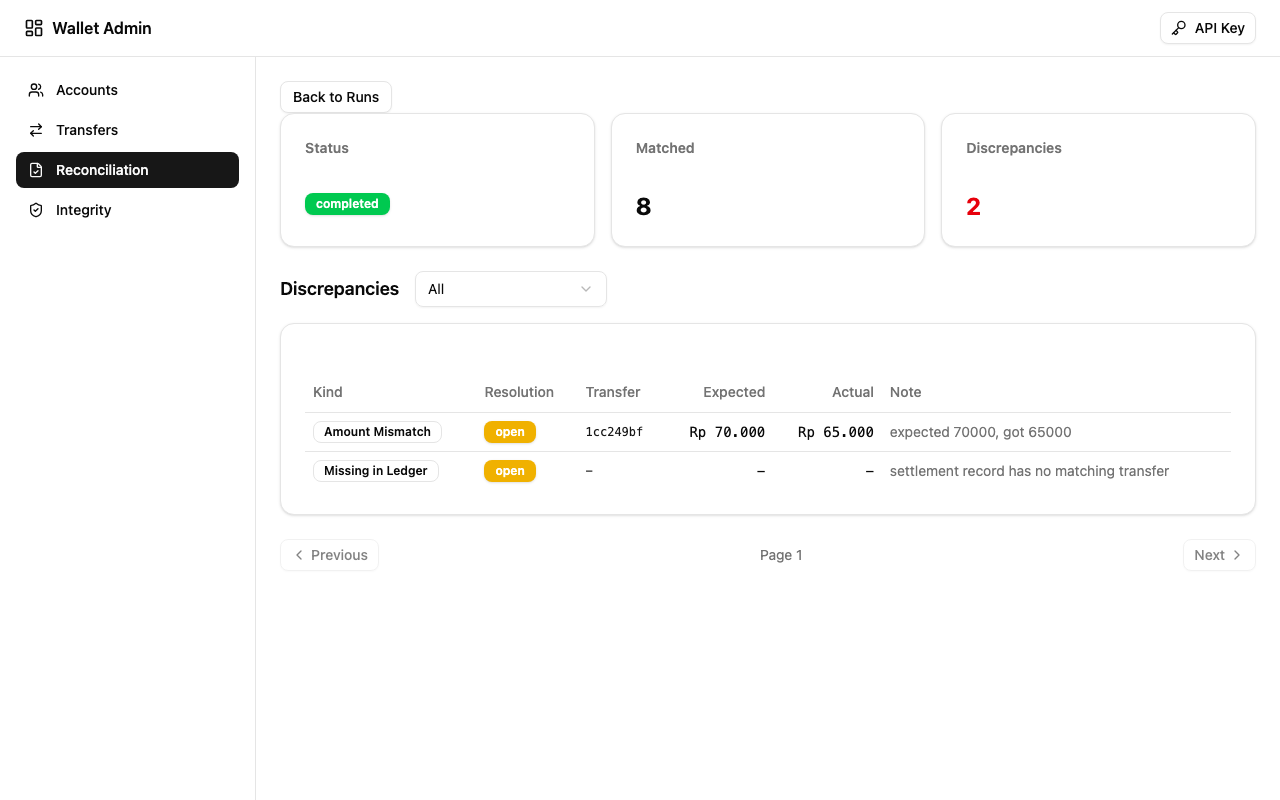
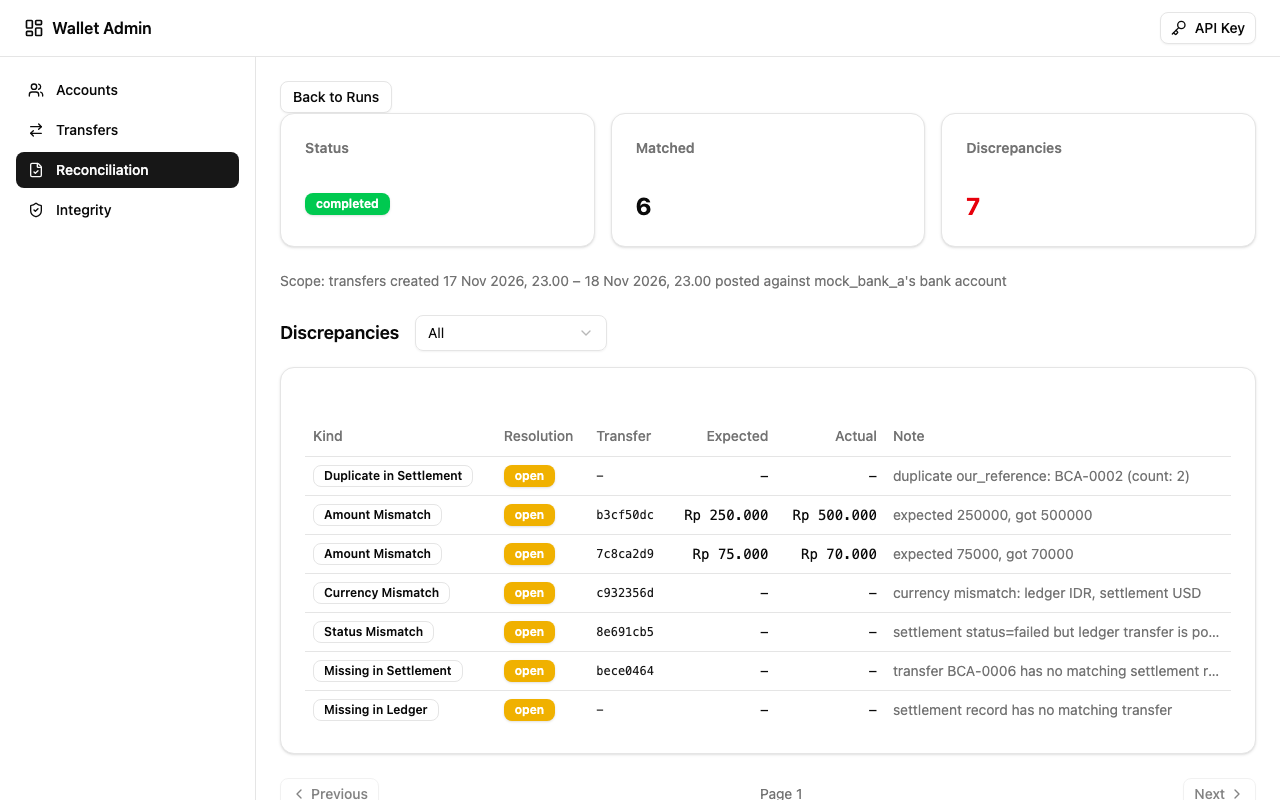
docs(screenshots): show the run scope on the reconciliation run detail
The run detail page shows the scope each run used since #7 (provider
business day and bank account), and the discrepancy labels changed in #3.
The old screenshot showed neither. It is regenerated from a seeded
mock_bank_a run (23:00 WIB cut-off) with six discrepancy kinds. A top-up
through mock_bank_b and a peer transfer on the same day are correctly
absent. Only this screenshot changes; the other pages did not.

diff --git a/README.md b/README.md
@@ -277,7 +277,9 @@ Run list:
 
 ![Reconciliation runs](docs/screenshots/reconciliation.png)
 
-Run detail with discrepancies (amount mismatch, record missing in ledger):
+Run detail: the transfer scope the run used (the provider's business day,
+23:00–23:00 WIB, and its bank account) and the discrepancies found, here one
+of each kind except duplicate in ledger:
 
 ![Reconciliation run detail](docs/screenshots/reconciliation-run.png)
 
